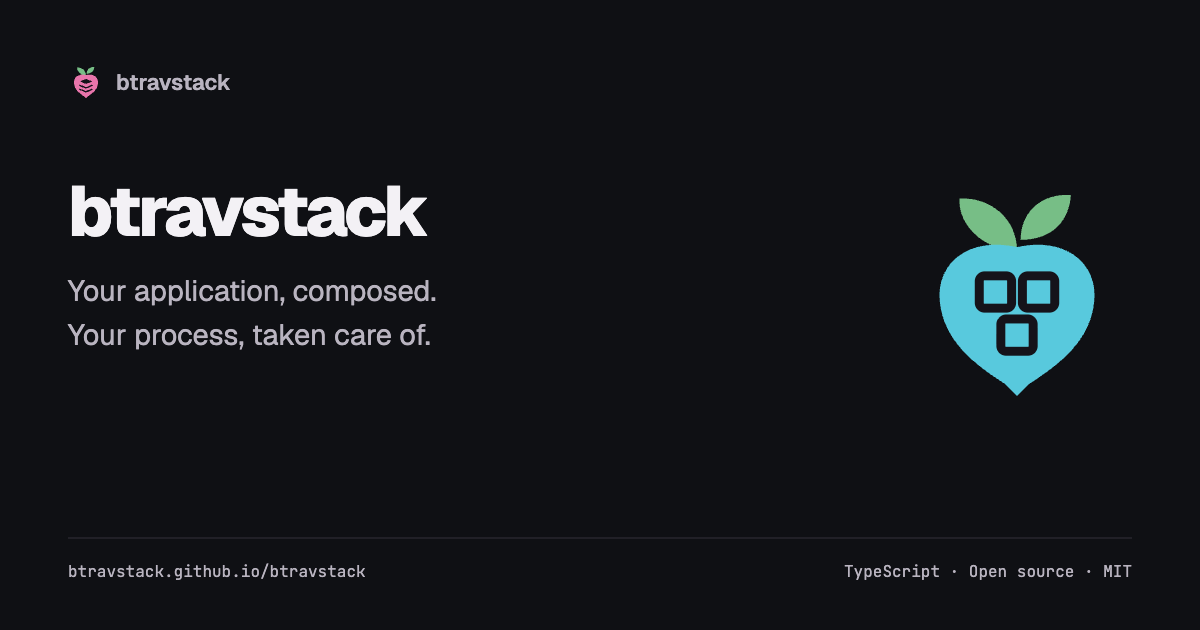
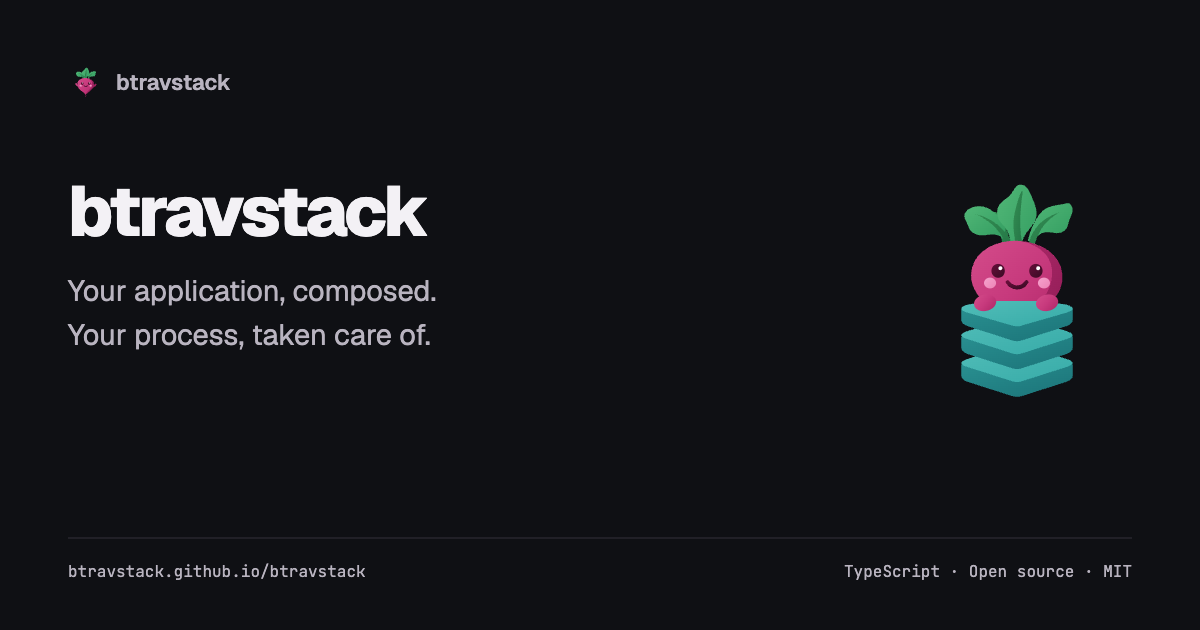
docs: preserve illustrated framework identity

Changed region(s): [[0.7708, 0.3016, 0.925, 0.6333], [0.0617, 0.0905, 0.0925, 0.1508]]

diff --git a/docs/.vitepress/config.ts b/docs/.vitepress/config.ts
@@ -396,7 +396,7 @@ export default defineConfig({
       {
         property: "og:image:alt",
         content:
-          "btravstack — Your application, composed. Your process, taken care of. Cyan beetroot framework mark with composed blocks.",
+          "btravstack — Your application, composed. Your process, taken care of. Smiling beetroot mascot on three teal layers.",
       },
     ],
     ["meta", { name: "twitter:card", content: "summary_large_image" }],
@@ -406,7 +406,7 @@ export default defineConfig({
       {
         name: "twitter:image:alt",
         content:
-          "btravstack — Your application, composed. Your process, taken care of. Cyan beetroot framework mark with composed blocks.",
+          "btravstack — Your application, composed. Your process, taken care of. Smiling beetroot mascot on three teal layers.",
       },
     ],
   ],

diff --git a/docs/branding/README.md b/docs/branding/README.md
@@ -1,8 +1,11 @@
 # Framework identity
 
-The beetroot silhouette belongs to the btravstack ecosystem; the cyan composed
-blocks identify the framework. Use the light/dark SVGs for the matching
-surface. The monochrome asset is for black-on-white print.
+The framework keeps its approved illustrated mascot: a smiling beetroot atop
+three teal layers. The light/dark SVGs use native vector paths and gradients
+for the matching surface; the monochrome asset is for black-on-white print.
+`../public/logo.png` preserves the original approved raster illustration byte
+for byte. The SVGs are a vector interpretation of that illustration, not a
+pixel-identical replacement.
 
 Canonical source: [generate-brand.mjs](https://github.com/btravstack/btravstack.github.io/blob/main/scripts/generate-brand.mjs), project `framework`.
 The coordinated social card comes from [social-card.html](https://github.com/btravstack/btravstack.github.io/blob/main/branding/social-card.html?project=framework)

diff --git a/docs/AGENTS.md b/docs/AGENTS.md
@@ -149,9 +149,10 @@ the old repository.
 The framework uses the shared theme's beet-pink accent in
 `.vitepress/theme/custom.css`. Navigation and homepage choose
 `public/logo-light.svg` or `public/logo-dark.svg` for the surface; the favicon
-is `public/favicon.svg`. The cyan framework mark shares the ecosystem's
-beetroot silhouette and carries composed blocks. `public/logo.png` remains a
-raster fallback for existing links. The decorative stack in
+is `public/favicon.svg`. The illustrated framework mascot is a
+smiling beetroot atop three teal layers. The SVGs are native vector paths;
+`public/logo.png` preserves the approved raster illustration unchanged as a
+fallback for existing links. The decorative stack in
 `.vitepress/theme/hero-glyph.svg` remains a CSS mask tinted by the theme accent.
 
 `public/og-btravstack.png` is the 1200 × 630 social preview, linked by absolute

diff --git a/docs/index.md b/docs/index.md
@@ -10,7 +10,7 @@ hero:
   image:
     light: /logo-light.svg
     dark: /logo-dark.svg
-    alt: btravstack framework logo
+    alt: btravstack smiling beetroot mascot on three teal layers
   actions:
     - theme: brand
       text: Get Started
